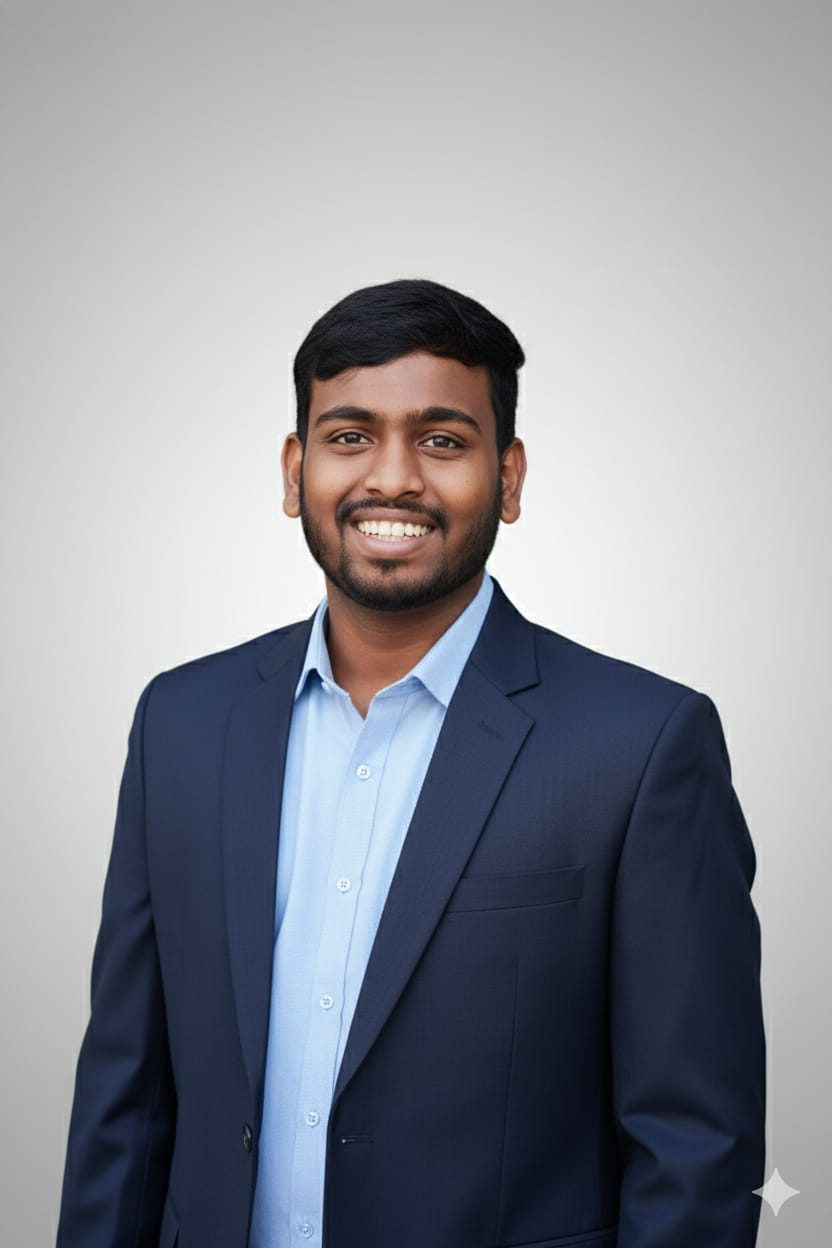
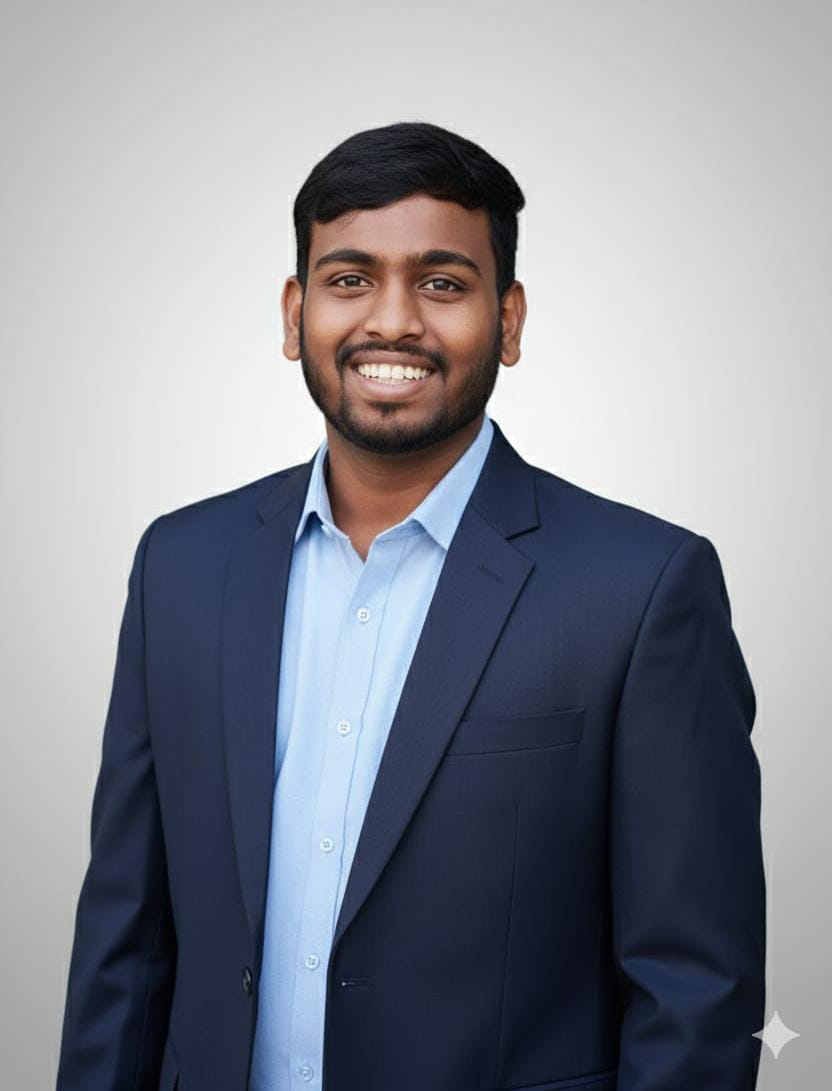
fix: use Vite imports for team photos so they work in production builds

diff --git a/src/data/team.ts b/src/data/team.ts
@@ -1,3 +1,8 @@
+import pravinPhoto from '../assets/team/pravin.jpg';
+import samarthPhoto from '../assets/team/samarth.jpg';
+import pratikshaPhoto from '../assets/team/pratiksha.jpg';
+import shreyasPhoto from '../assets/team/shreyas.jpg';
+
 export interface TeamMember {
   id: string;
   name: string;
@@ -51,7 +56,7 @@ export const TEAM_MEMBERS: TeamMember[] = [
     linkedin: "https://www.linkedin.com/in/pravin-aadake-2a61ab345",
     github: "https://github.com/pravina045",
     phone: "8329147815",
-    photo: "/src/assets/team/pravin.jpg"
+    photo: pravinPhoto
   },
   {
     id: "samarth-kumbhar",
@@ -85,7 +90,7 @@ export const TEAM_MEMBERS: TeamMember[] = [
     linkedin: "https://www.linkedin.com/in/samarth-kumbhar-a54a23327",
     github: "https://github.com/Samarthkumbhar99",
     phone: "8625086644",
-    photo: "/src/assets/team/samarth.jpg"
+    photo: samarthPhoto
   },
   {
     id: "pratiksha-bhaskare",
@@ -119,7 +124,7 @@ export const TEAM_MEMBERS: TeamMember[] = [
     linkedin: "https://www.linkedin.com/in/pratiksha-bhaskare-1a8644333",
     github: "https://github.com/Pratiksha-2005",
     phone: "8999618090",
-    photo: "/src/assets/team/pratiksha.jpg"
+    photo: pratikshaPhoto
   },
   {
     id: "shreyas-suryawanshi",
@@ -151,6 +156,6 @@ export const TEAM_MEMBERS: TeamMember[] = [
     linkedin: "https://www.linkedin.com/in/shreyash-suryawanshi-2885a030a",
     github: "https://github.com/shreyash220706",
     phone: "9011388302",
-    photo: "/src/assets/team/shreyas.jpg"
+    photo: shreyasPhoto
   }
 ];
